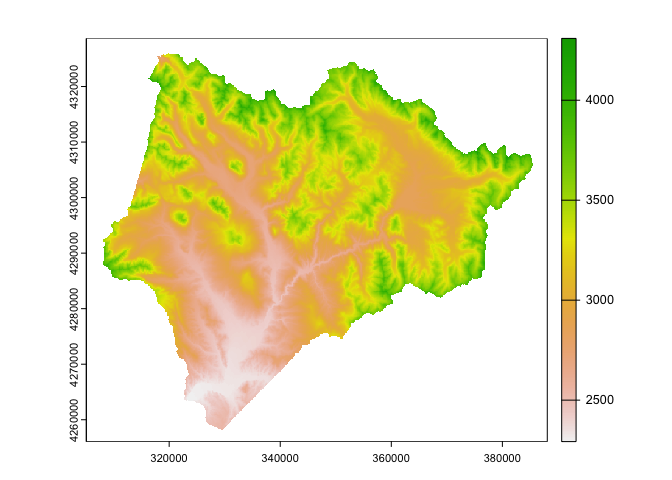
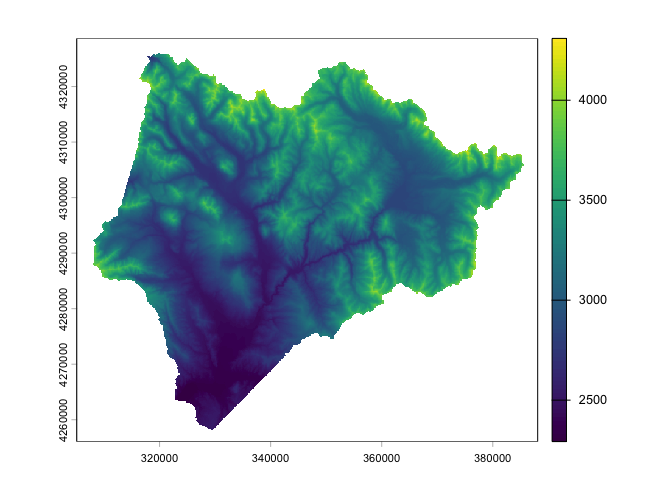
Refresh docs for the v0.5/v0.6 features.
- README.Rmd / README.md: use include_deprecated arg, swap deprecated
  R4D001 example for its successor R6D007, and add short sections
  pointing at the issue-reporting and version-tracking workflows.
- CLAUDE.md: fix the TimeSeriesType set (was missing Seasonal/Weekly).
- stac-gen/README.md: bump product count to 164, document the new
  refresh_issue_counts.py path for keeping STAC counts fresh without
  rebuilding the full tree.
- stac-gen/build_stac.py: fix a stale log message that still referred
  to the pre-rename sdp-issues repo name.

diff --git a/stac-gen/build_stac.py b/stac-gen/build_stac.py
@@ -135,7 +135,7 @@ def main():
     log.info("Pre-fetch complete.")
 
     # --- Step 2.5: Fetch open issue counts (one API call, cheap) ---
-    log.info("Fetching open issue counts from rmbl-sdp/sdp-issues...")
+    log.info("Fetching open issue counts from rmbl-sdp/sdp-products...")
     issue_counts = fetch_open_issue_counts()
     log.info("Open issue counts: %d products have open issues", len(issue_counts))
 

diff --git a/README.md b/README.md
@@ -4,6 +4,7 @@
 # rSDP <img src="man/figures/logo.png" align="right" />
 
 <!-- badges: start -->
+
 <!-- badges: end -->
 
 The rSDP package provides a simple interface for discovering, querying,
@@ -47,9 +48,9 @@ currently available and what their spatial attributes are.
 library(rSDP)
 
 ## Gets entries for vegetation data products in the Upper Gunnison (UG) domain.
-sdp_cat <- sdp_get_catalog(domains="UG", 
+sdp_cat <- sdp_get_catalog(domains="UG",
                            types="Vegetation",
-                           deprecated=FALSE,
+                           include_deprecated=FALSE,
                            return_stac=FALSE)
 sdp_cat[,1:5]
 #>    CatalogID  Release       Type                       Product Domain
@@ -127,12 +128,12 @@ location_df <- data.frame(SiteName=c("Roaring Judy","Gothic","Galena Lake"),
 location_sv <- terra::vect(location_df,geom=c("Lon","Lat"),crs="EPSG:4327")
 
 dem_sample <- sdp_extract_data(raster=elev,locations=location_sv)
-#> [1] "Re-projecting locations to coordinate system of the raster."
-#> [1] "Extracting data at 3 locations for 1 raster layers."
-#> [1] "Extraction complete."
+#> Re-projecting locations to coordinate system of the raster.
+#> Extracting data at 3 locations for 1 raster layers.
+#> Extraction complete.
 slope_sample <- sdp_extract_data(raster=slope,locations=dem_sample)
-#> [1] "Extracting data at 3 locations for 1 raster layers."
-#> [1] "Extraction complete."
+#> Extracting data at 3 locations for 1 raster layers.
+#> Extraction complete.
 plot(slope_sample$UG_dem_3m_v1,slope_sample$UG_dem_slope_1m_v1,xlab="Elevation (m).",
      ylab="Slope (degrees)")
 ```
@@ -154,12 +155,14 @@ location_poly <- data.frame(SiteName=c("Wet","Conifer","Rocky"),
 location_poly_sv <- terra::vect(location_poly,geom="WKT",crs="EPSG:32613")
 
 slope_site_mean <- sdp_extract_data(raster=slope,locations=location_poly_sv)
-#> [1] "Extracting data at 3 locations for 1 raster layers."
-#> [1] "Extraction complete."
+#> Extracting data at 3 locations for 1 raster layers.
+#> |---------|---------|---------|---------|=========================================                                          |---------|---------|---------|---------|=========================================                                          |---------|---------|---------|---------|=========================================                                          
+#> Extraction complete.
 slope_site_sd <- sdp_extract_data(raster=slope,locations=slope_site_mean,
                                   sum_fun=sd,bind=TRUE)
-#> [1] "Extracting data at 3 locations for 1 raster layers."
-#> [1] "Extraction complete."
+#> Extracting data at 3 locations for 1 raster layers.
+#> |---------|---------|---------|---------|=========================================                                          |---------|---------|---------|---------|=========================================                                          |---------|---------|---------|---------|=========================================                                          
+#> Extraction complete.
 names(slope_site_sd) <- c("SiteName","ID","Slope_mean","ID2","Slope_sd")
 
 plot(slope_site_sd$Slope_mean,slope_site_sd$Slope_sd,xlab="Slope Mean (deg.)",
@@ -176,16 +179,12 @@ the polygon (useful for computing area-weighted means.)
 ``` r
 slope_allcells <- sdp_extract_data(raster=slope,locations=slope_site_mean,
                                   sum_fun=NULL,exact=TRUE,bind=FALSE)
-#> [1] "Extracting data at 3 locations for 1 raster layers."
-#> [1] "Extraction complete."
+#> Extracting data at 3 locations for 1 raster layers.
+#> |---------|---------|---------|---------|=========================================                                          
+#> Extraction complete.
 head(slope_allcells)
-#>   ID UG_dem_slope_1m_v1   fraction
-#> 1  1           4.609455 0.01733949
-#> 2  1           6.018766 0.34246161
-#> 3  1           9.753592 0.60725906
-#> 4  1           3.104769 0.06934668
-#> 5  1           6.362072 0.46575703
-#> 6  1           6.617933 0.88677505
+#> [1] ID                 UG_dem_slope_1m_v1 fraction          
+#> <0 rows> (or 0-length row.names)
 ```
 
 ## Working with raster time-series
@@ -197,13 +196,13 @@ year.
 ``` r
 ## Connects to rasters from a temporal subset of daily data.
 tmax <- sdp_get_raster("R4D004",date_start=as.Date("2011-12-01"),date_end=as.Date("2011-12-30"))
-#> [1] "Returning daily dataset with 30 layers..."
+#> Returning daily dataset with 30 layers...
 
 ## Further subsets when extracting data
 tmax_sample <- sdp_extract_data(tmax,location_sv,date_start=as.Date("2011-12-01"),date_end=as.Date("2011-12-20"))
-#> [1] "Re-projecting locations to coordinate system of the raster."
-#> [1] "Extracting data at 3 locations for 20 raster layers."
-#> [1] "Extraction complete."
+#> Re-projecting locations to coordinate system of the raster.
+#> Extracting data at 3 locations for 20 raster layers.
+#> Extraction complete.
 tmax_df <- as.data.frame(tmax_sample)
 dates <- as.Date(names(tmax_df)[3:ncol(tmax_sample)])
 sites <- tmax_df$SiteName
@@ -220,8 +219,9 @@ legend("bottomright", legend=sites,col=c(1,3,4),bty="n",lty=1)
 ``` r
 
 ##Retrieving rasters from a subset of years.
-snow_yearly <- sdp_get_raster("R4D001",years=c(2012,2019))
-#> [1] "Returning yearly dataset with 2 layers..."
+##(R4D001 was superseded by R6D007 in v0.5 — see sdp_get_catalog()$NewVersionID.)
+snow_yearly <- sdp_get_raster("R6D007",years=c(2012,2019))
+#> Returning yearly dataset with 2 layers...
 terra::plot(snow_yearly,range=c(60,230))
 ```
 
@@ -237,7 +237,7 @@ raster object with many (sometimes hundreds) of layers.
 ## Extracts with a single call.
 start1 <- Sys.time()
 tmax1 <- sdp_get_raster("R4D004",date_start=as.Date("2004-10-01"),date_end=as.Date("2004-10-31"))
-#> [1] "Returning daily dataset with 31 layers..."
+#> Returning daily dataset with 31 layers...
 
 tmax_extr1 <- sdp_extract_data(tmax1,location_sv,verbose=FALSE)
 elapsed1 <- Sys.time() - start1
@@ -275,7 +275,7 @@ library(doParallel)
 #> Loading required package: iterators
 #> Loading required package: parallel
 library(sf)
-#> Linking to GEOS 3.10.2, GDAL 3.4.2, PROJ 8.2.1; sf_use_s2() is TRUE
+#> Linking to GEOS 3.13.0, GDAL 3.8.5, PROJ 9.5.1; sf_use_s2() is TRUE
 
 ## Can't pass SpatVector or SpatRaster objects via Foreach, so convert to sf.
 locations_sf <- st_as_sf(location_sv)
@@ -301,9 +301,39 @@ elapsed4 <- Sys.time() - start4
 timings <- data.frame(approach=c("Single Call","Looping sdp_extract_data()","Looping over sdp_get_raster()","Foreach"),
                       timing=c(elapsed1,elapsed2,elapsed3,elapsed4))
 timings
-#>                        approach        timing
-#> 1                   Single Call 19.74518 secs
-#> 2    Looping sdp_extract_data() 27.44984 secs
-#> 3 Looping over sdp_get_raster() 29.54908 secs
-#> 4                       Foreach 35.03244 secs
+#>                        approach         timing
+#> 1                   Single Call 24.651491 secs
+#> 2    Looping sdp_extract_data() 23.695093 secs
+#> 3 Looping over sdp_get_raster() 24.856937 secs
+#> 4                       Foreach  6.811561 secs
 ```
+
+## Reporting issues with SDP datasets
+
+Issues with the SDP **datasets** (incorrect values, missing dates,
+metadata errors) are tracked at
+<https://github.com/rmbl-sdp/sdp-products>, separately from bugs in the
+rSDP package itself. From R:
+
+``` r
+## Open the prefilled issue form in your browser for a specific dataset.
+sdp_report_issue("R3D009")
+
+## See what's already been reported.
+sdp_known_issues("R3D009")
+
+## Include open-issue counts when listing the catalog.
+sdp_get_catalog(with_issue_counts = TRUE)
+```
+
+See the `Reporting Issues with SDP Datasets` vignette for the end-to-end
+flow.
+
+## Deprecated datasets
+
+When a dataset is superseded by a newer version, its `Deprecated` flag
+is set to `TRUE` and `NewVersionID` points at the replacement. By
+default `sdp_get_catalog()` and `sdp_browse()` hide deprecated rows;
+pass `include_deprecated = TRUE` to see them. `sdp_get_raster()` will
+load a deprecated dataset but emit a warning pointing at the recommended
+replacement.

diff --git a/stac-gen/README.md b/stac-gen/README.md
@@ -23,7 +23,7 @@ make build
 python build_stac.py --output-dir out/stac/v1
 ```
 
-First run fetches metadata XML and COG headers from S3 (~2 minutes for 121 products). Subsequent runs use cached data from `.cache/` and complete in seconds.
+First run fetches metadata XML and COG headers from S3 (~5 minutes for 164 products). Subsequent runs use cached data from `.cache/` and complete in seconds.
 
 ### Validate
 
@@ -82,3 +82,24 @@ python build_stac.py --help
 rm -rf .cache/     # re-fetches everything on next build
 make clean         # removes out/ only
 ```
+
+## Refreshing issue counts without a full rebuild
+
+Open-issue counts on STAC collections (`rmbl:open_issues_count`) are kept fresh by a separate, much lighter pipeline. Rebuilding the full STAC tree to refresh ~164 collection-level numbers would needlessly rewrite ~32K item JSONs, so this script only patches `collection.json` files in place:
+
+```bash
+# Download just the collection.json files from S3.
+mkdir -p stac-tree
+aws s3 sync s3://rmbl-sdp/stac/v1/ stac-tree/ \
+  --exclude "*" --include "*/collection.json"
+
+# Patch counts + report-issue/related links.
+python refresh_issue_counts.py --stac-dir stac-tree
+
+# Sync only changed collection.json files back.
+aws s3 sync stac-tree/ s3://rmbl-sdp/stac/v1/ \
+  --exclude "*" --include "*/collection.json" --acl public-read
+```
+
+In practice this runs automatically via a GitHub Actions workflow on
+[`rmbl-sdp/sdp-products`](https://github.com/rmbl-sdp/sdp-products) on issue events plus a nightly cron fallback (see `.github/workflows/refresh-issue-counts.yml` in that repo).

diff --git a/CLAUDE.md b/CLAUDE.md
@@ -26,7 +26,7 @@ R package providing a simplified interface for discovering, querying, and subset
 - All exported functions live in the `sdp_*` namespace
 - CRS for all SDP rasters is `EPSG:32613` (UTM 13N); the package hard-codes this
 - Catalog IDs are 6-character codes like `R3D009`, `R4D004`, `BM012` (Release/Basemap + type + number)
-- `TimeSeriesType` ∈ {`Single`, `Yearly`, `Monthly`, `Daily`} drives most branching in `sdp_get_raster()`
+- `TimeSeriesType` ∈ {`Single`, `Yearly`, `Seasonal`, `Monthly`, `Weekly`, `Daily`} (authoritative list: `R/constants.R::.SDP_TIMESERIES_TYPES`) drives most branching in `sdp_get_raster()`. `Weekly` is for irregular drone imagery; `Seasonal` is reserved (no resolver yet).
 - URL templates in the catalog use `{year}`, `{month}`, `{day}` placeholders that get substituted
 
 ## Common commands
